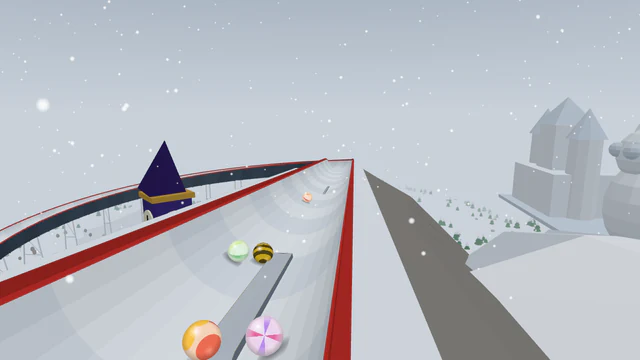
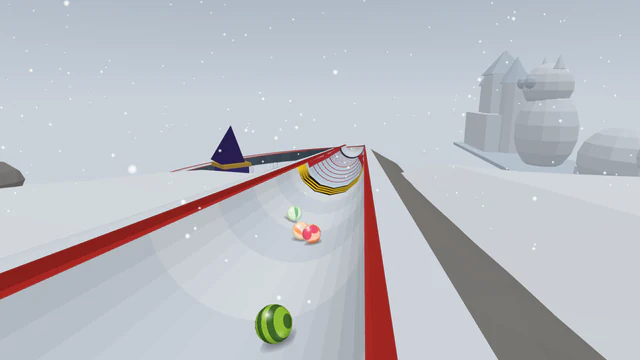
Boost-pad jump on Sapporo Snow Sculptures (ski jump), still switched off
A ski jump at the end of the park's box line (the straight longer to fit it; the billboard before
the hairpin moved to the park bends, out of the follow camera's way). Passed its full report again
(49 of 49), the fairness and first-20-seconds checks included. Data update
2027-03-20-sapporo-snow-sculptures-ski-jump. No live track changes.

Claude-Session: https://claude.ai/code/session_011vSSkqNPL9kncfzrwF15wS

diff --git a/src/tracks/sapporo-snow-sculptures.js b/src/tracks/sapporo-snow-sculptures.js
@@ -2,9 +2,9 @@
 
 // Sapporo Snow Sculptures: Holiday Season 2026 track (Coasters), Track of the Day on 18 December.
 // A snowy day in the northern city: off the foot of a ski jump's in-run, down to the park, a box
-// line through the long park past giant snow sculptures (a castle, an owl, a bear, a whale's tail),
+// line and a ski jump through the long park past giant snow sculptures (a castle, an owl, a bear, a whale's tail),
 // under the lattice TV tower and along the snow lanterns to the line.
-const { track, opening, straight, sBends, sweep, spiral, hairpin, plunge, runIn, slalom, swipe, peg, rumble, box, rail, boost } = require('../trackKit');
+const { boostJump, track, opening, straight, sBends, sweep, spiral, hairpin, plunge, runIn, slalom, swipe, peg, rumble, box, rail, boost } = require('../trackKit');
 
 module.exports = track({
   slug: 'sapporo-snow-sculptures',
@@ -12,7 +12,7 @@ module.exports = track({
   season: 'holiday-2026',
   family: 'coaster',
   difficulty: 'extreme',
-  description: 'A snowy day in a northern city: off the top of a ski jump, a box line through the long park past giant snow sculptures (a castle, an owl, a bear, a whale\'s tail), under the lattice TV tower and along the snow lanterns to the line.',
+  description: 'A snowy day in a northern city: off the top of a ski jump, a box line and a ski jump through the long park past giant snow sculptures (a castle, an owl, a bear, a whale\'s tail), under the lattice TV tower and along the snow lanterns to the line.',
   surface: 'snow',
   biome: 'alpine',
   lighting: 'snow',
@@ -21,19 +21,20 @@ module.exports = track({
   start: { landmark: 'tv-tower', scenery: ['pines'], type: 'ski-jump', gate: 'stalls', shots: { countdown: 'chase', launch: 'high-behind' } },
   finish: { landmark: 'snow-lanterns', scenery: ['birches'] },
   designChanges: [
+    'A ski jump (the boost-pad jump, approved by Moses on 19 Oct) at the end of the park\'s box line, its straight longer to fit it; the billboard before the hairpin moved to the park bends, out of the follow camera\'s way.',
     'The gate stands at the foot of a ski jump\'s in-run (a new start type), the start hut high behind it; a steep first drop (a snowball pile-up and a slalom of ice lanterns) takes the field down to the park.',
     'The snow sculptures are generic carved shapes (a castle, an owl, a bear, a whale\'s tail), nothing from any film or brand; the TV tower is a generic lattice tower. No names on anything drawn.',
   ],
   opening: opening('classic', { costumes: { block: 'giant-snowball', slalom: 'ice-lantern' }, names: { plunge: 'Off the in-run' }, dress: { plunge: { height: 18 } } }),
   sections: [
     {
-      name: 'Sculpture park box line', shape: straight(120, { grade: 0.1 }), height: 0,
-      features: [box({ at: 0.2, length: 12 }), rail({ at: 0.55, length: 10 })],
+      name: 'Sculpture park box line', shape: straight(190, { grade: 0.1 }), height: 0,
+      features: [box({ at: 0.06, length: 12 }), rail({ at: 0.18, length: 10 }), boostJump({ at: 0.4, look: 'ski-jump' })],
       landmarks: [{ name: 'snow-sculptures', side: 'left', at: 0.5, distance: 22 }],
     },
     { name: 'Tower spin', shape: spiral({ side: 'right', radius: 55, turns: 1.1, grade: 0.15 }), height: 14, around: 'clocktower' },
-    { name: 'Park bends', shape: sBends({ first: 'left', radius: 70, degrees: 80, grade: 0.12 }), height: 10, billboards: 2, obstacles: [slalom({ costume: 'ice-lantern', from: 0.2, to: 0.8, count: 4, loss: 0.12 })] },
-    { name: 'Run to the hairpin', shape: straight(50, { grade: 0.12 }), height: 6, billboards: 1, obstacles: [peg({ costume: 'ice-lantern', at: 0.15, line: 'center' }), peg({ costume: 'ice-lantern', at: 0.32, line: 'left' }), peg({ costume: 'ice-lantern', at: 0.5, line: 'right' })] },
+    { name: 'Park bends', shape: sBends({ first: 'left', radius: 70, degrees: 80, grade: 0.12 }), height: 10, billboards: 3, obstacles: [slalom({ costume: 'ice-lantern', from: 0.2, to: 0.8, count: 4, loss: 0.12 })] },
+    { name: 'Run to the hairpin', shape: straight(50, { grade: 0.12 }), height: 6, obstacles: [peg({ costume: 'ice-lantern', at: 0.15, line: 'center' }), peg({ costume: 'ice-lantern', at: 0.32, line: 'left' }), peg({ costume: 'ice-lantern', at: 0.5, line: 'right' })] },
     { name: 'Hairpin', shape: hairpin({ side: 'right' }), height: 8, obstacles: [swipe({ costume: 'snow-troll', side: 'high' })] },
     { name: 'Snow drop', shape: plunge(50, { grade: 0.17, from: 0.1 }), height: 12, obstacles: [slalom({ costume: 'ice-lantern', from: 0.35, to: 0.95, count: 5, loss: 0.18 })] },
     { name: 'Long park sweep', shape: sweep({ side: 'left', radius: 90, degrees: 150, grade: 0.085 }), height: 14, billboards: 2, features: [boost({ at: 0.08 })] },
